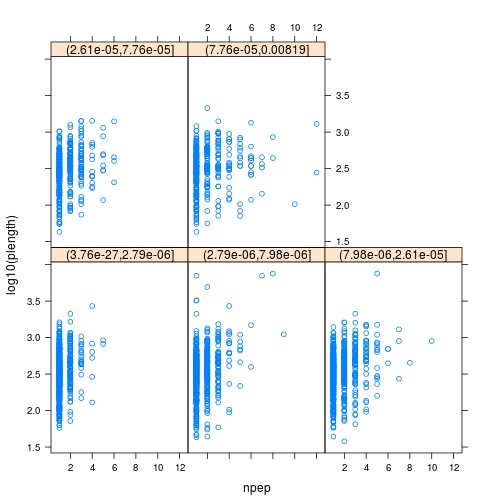
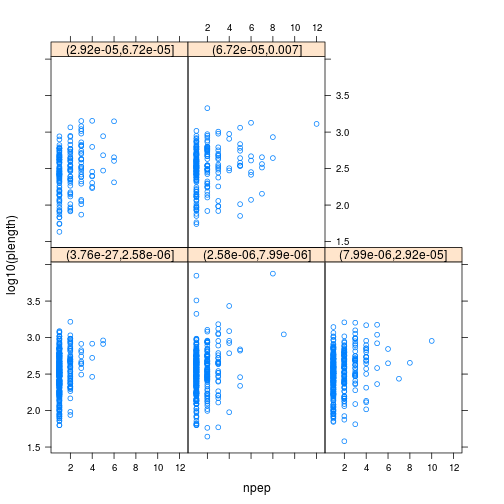
only use non-decoy peps in example

diff --git a/ident/README.md b/ident/README.md
@@ -200,7 +200,9 @@ identifications?
 
 ```r
 fid <- flatten(id)
-x <- by(fid, fid$accession,
+fid2 <- fid[!fid$isdecoy, ]
+
+x <- by(fid2, fid2$accession,
         function(x)
             c(unique(x$length),
               length(unique(x$pepseq)),
